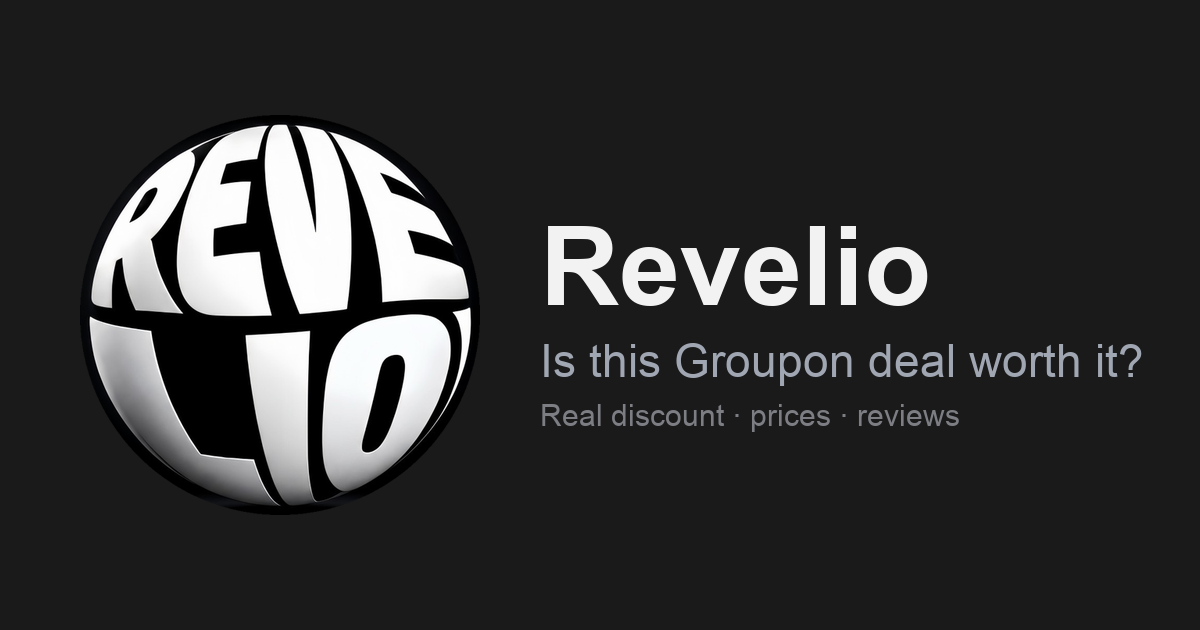
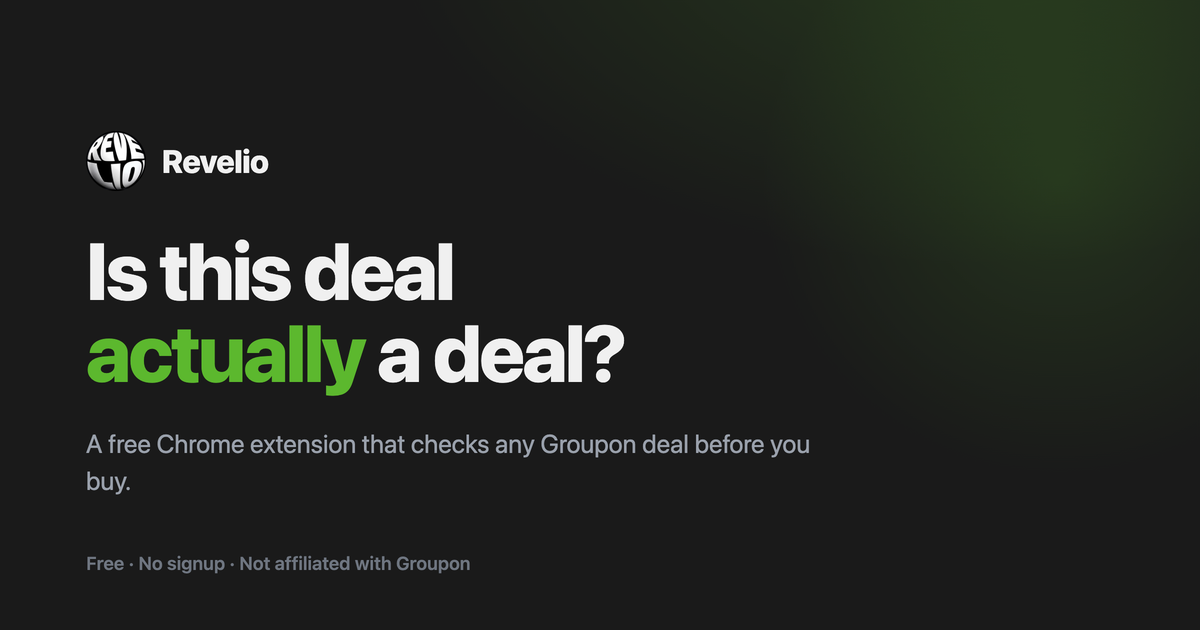
feat(web): update share preview to 'Is this deal actually a deal?'
Refresh the page title, meta description, Open Graph, and Twitter tags to the
new tagline and extension framing, and regenerate og-image.png to match.

diff --git a/web/index.html b/web/index.html
@@ -5,14 +5,14 @@
     <link rel="icon" type="image/png" href="/favicon.png" />
     <link rel="apple-touch-icon" href="/apple-touch-icon.png" />
     <meta name="viewport" content="width=device-width, initial-scale=1.0" />
-    <title>Revelio - Is this Groupon deal worth it?</title>
-    <meta name="description" content="Paste a Groupon deal link and Revelio reveals the real discount vs the advertised one, compares same-city prices, and cross-references Yelp & Google reviews into a clear buy-or-skip verdict." />
+    <title>Revelio - Is this deal actually a deal?</title>
+    <meta name="description" content="Revelio is a free Chrome extension that reads any Groupon deal page and tells you whether it's worth buying: the real discount, a fair price, and honest reviews. A clear buy, caution, or skip verdict in seconds." />
 
     <!-- Open Graph (LINE, Facebook, Slack, Discord…) -->
     <meta property="og:type" content="website" />
     <meta property="og:site_name" content="Revelio" />
-    <meta property="og:title" content="Revelio - Is this Groupon deal worth it?" />
-    <meta property="og:description" content="Reveal the real discount, compare same-city prices, and cross-reference reviews - into a clear buy-or-skip verdict." />
+    <meta property="og:title" content="Revelio - Is this deal actually a deal?" />
+    <meta property="og:description" content="A free Chrome extension that checks any Groupon deal: the real discount, a fair price, and honest reviews, into a clear buy, caution, or skip verdict." />
     <meta property="og:url" content="https://getrevelio.web.app/" />
     <meta property="og:image" content="https://getrevelio.web.app/og-image.png" />
     <meta property="og:image:width" content="1200" />
@@ -20,8 +20,8 @@
 
     <!-- Twitter / X -->
     <meta name="twitter:card" content="summary_large_image" />
-    <meta name="twitter:title" content="Revelio - Is this Groupon deal worth it?" />
-    <meta name="twitter:description" content="Reveal the real discount, compare same-city prices, and cross-reference reviews - into a clear buy-or-skip verdict." />
+    <meta name="twitter:title" content="Revelio - Is this deal actually a deal?" />
+    <meta name="twitter:description" content="A free Chrome extension that checks any Groupon deal: the real discount, a fair price, and honest reviews, into a clear buy, caution, or skip verdict." />
     <meta name="twitter:image" content="https://getrevelio.web.app/og-image.png" />
   </head>
   <body>
